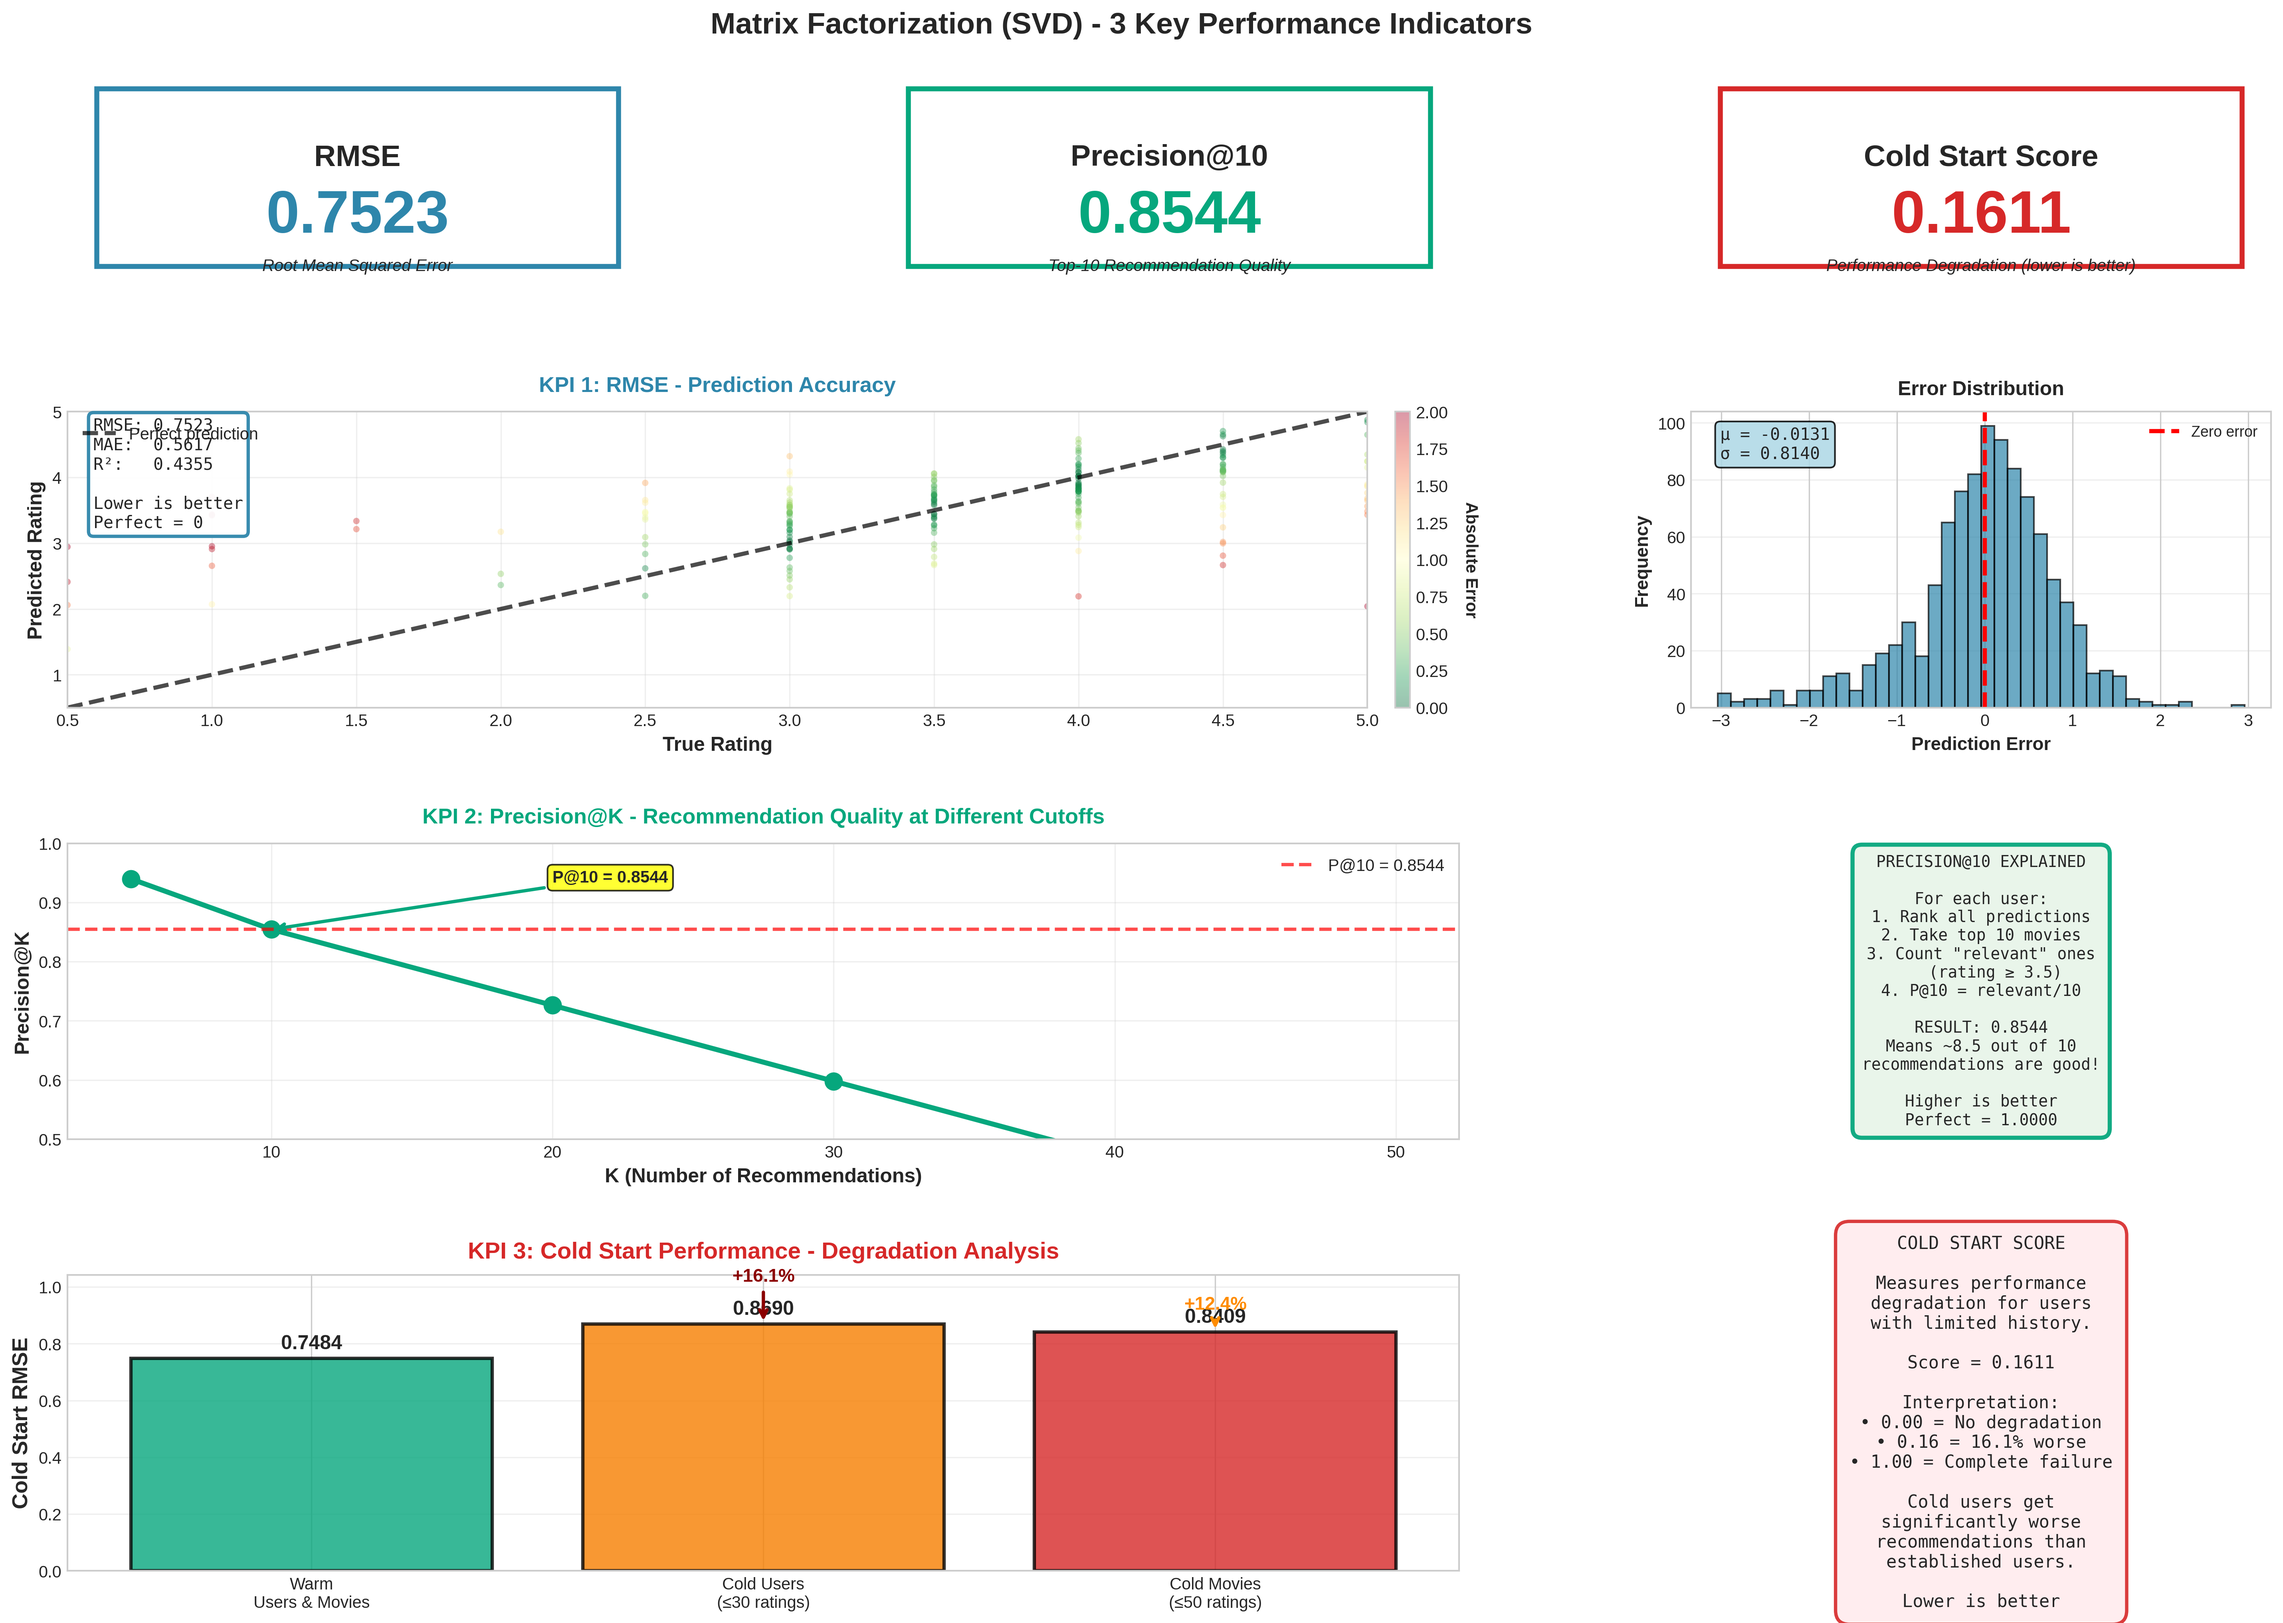
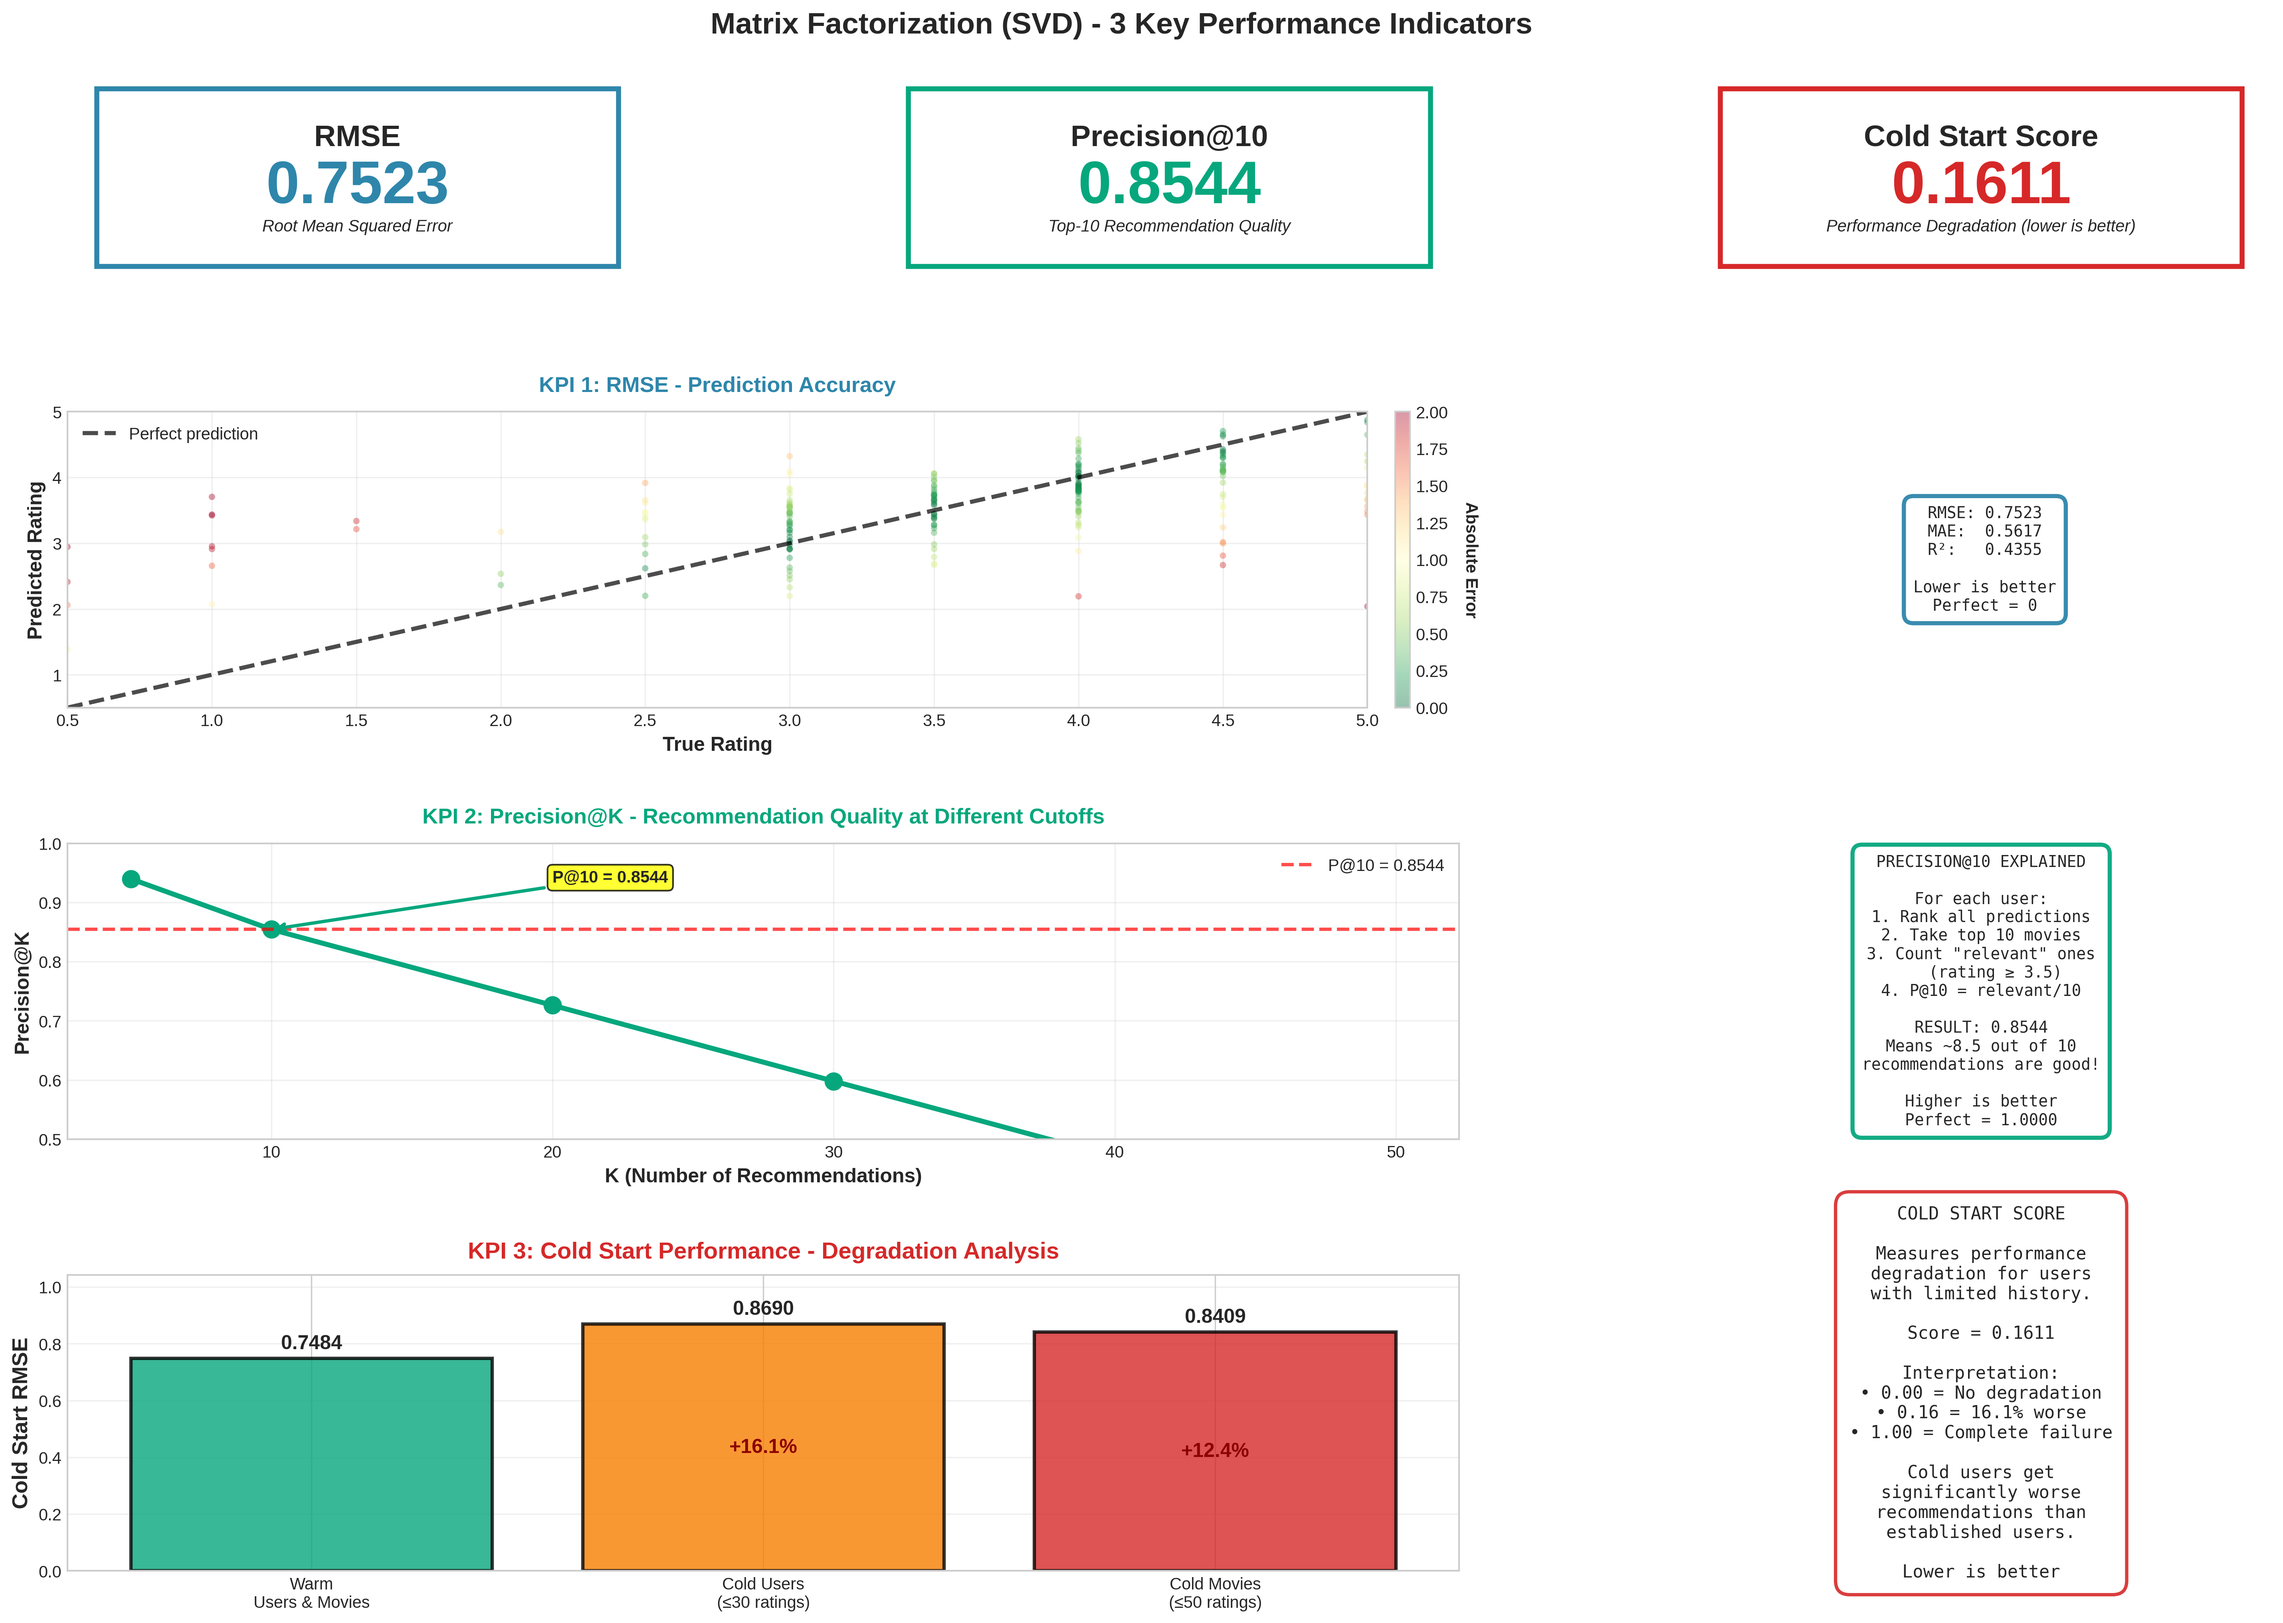
Adjusted and corrected visualization script

diff --git a/scripts/04_svd_visualization.py b/scripts/04_svd_visualization.py
@@ -33,10 +33,10 @@ gs = fig.add_gridspec(4, 3, hspace=0.5, wspace=0.4, top=0.94, bottom=0.05, left=
 # KPI 1: RMSE
 ax_kpi1 = fig.add_subplot(gs[0, 0])
 ax_kpi1.axis('off')
-ax_kpi1.text(0.5, 0.6, 'RMSE', ha='center', va='center', fontsize=18, fontweight='bold', transform=ax_kpi1.transAxes)
-ax_kpi1.text(0.5, 0.3, f'{results["rmse"]:.4f}', ha='center', va='center', fontsize=36, fontweight='bold', 
+ax_kpi1.text(0.5, 0.7, 'RMSE', ha='center', va='center', fontsize=18, fontweight='bold', transform=ax_kpi1.transAxes)
+ax_kpi1.text(0.5, 0.45, f'{results["rmse"]:.4f}', ha='center', va='center', fontsize=36, fontweight='bold', 
             color='#2E86AB', transform=ax_kpi1.transAxes)
-ax_kpi1.text(0.5, 0.05, 'Root Mean Squared Error', ha='center', va='center', fontsize=10, 
+ax_kpi1.text(0.5, 0.25, 'Root Mean Squared Error', ha='center', va='center', fontsize=10, 
             style='italic', transform=ax_kpi1.transAxes)
 rect1 = plt.Rectangle((0.05, 0.05), 0.9, 0.9, transform=ax_kpi1.transAxes, 
                        fill=False, edgecolor='#2E86AB', linewidth=3)
@@ -45,10 +45,10 @@ ax_kpi1.add_patch(rect1)
 # KPI 2: Precision@10
 ax_kpi2 = fig.add_subplot(gs[0, 1])
 ax_kpi2.axis('off')
-ax_kpi2.text(0.5, 0.6, 'Precision@10', ha='center', va='center', fontsize=18, fontweight='bold', transform=ax_kpi2.transAxes)
-ax_kpi2.text(0.5, 0.3, f'{results["precision_at_10"]:.4f}', ha='center', va='center', fontsize=36, fontweight='bold', 
+ax_kpi2.text(0.5, 0.7, 'Precision@10', ha='center', va='center', fontsize=18, fontweight='bold', transform=ax_kpi2.transAxes)
+ax_kpi2.text(0.5, 0.45, f'{results["precision_at_10"]:.4f}', ha='center', va='center', fontsize=36, fontweight='bold', 
             color='#06A77D', transform=ax_kpi2.transAxes)
-ax_kpi2.text(0.5, 0.05, 'Top-10 Recommendation Quality', ha='center', va='center', fontsize=10, 
+ax_kpi2.text(0.5, 0.25, 'Top-10 Recommendation Quality', ha='center', va='center', fontsize=10, 
             style='italic', transform=ax_kpi2.transAxes)
 rect2 = plt.Rectangle((0.05, 0.05), 0.9, 0.9, transform=ax_kpi2.transAxes, 
                        fill=False, edgecolor='#06A77D', linewidth=3)
@@ -57,10 +57,10 @@ ax_kpi2.add_patch(rect2)
 # KPI 3: Cold Start Score
 ax_kpi3 = fig.add_subplot(gs[0, 2])
 ax_kpi3.axis('off')
-ax_kpi3.text(0.5, 0.6, 'Cold Start Score', ha='center', va='center', fontsize=18, fontweight='bold', transform=ax_kpi3.transAxes)
-ax_kpi3.text(0.5, 0.3, f'{results["cold_start_score"]:.4f}', ha='center', va='center', fontsize=36, fontweight='bold', 
+ax_kpi3.text(0.5, 0.7, 'Cold Start Score', ha='center', va='center', fontsize=18, fontweight='bold', transform=ax_kpi3.transAxes)
+ax_kpi3.text(0.5, 0.45, f'{results["cold_start_score"]:.4f}', ha='center', va='center', fontsize=36, fontweight='bold', 
             color='#D62828', transform=ax_kpi3.transAxes)
-ax_kpi3.text(0.5, 0.05, 'Performance Degradation (lower is better)', ha='center', va='center', fontsize=10, 
+ax_kpi3.text(0.5, 0.25, 'Performance Degradation (lower is better)', ha='center', va='center', fontsize=10, 
             style='italic', transform=ax_kpi3.transAxes)
 rect3 = plt.Rectangle((0.05, 0.05), 0.9, 0.9, transform=ax_kpi3.transAxes, 
                        fill=False, edgecolor='#D62828', linewidth=3)
@@ -98,29 +98,30 @@ R²:   {results['r2_score']:.4f}
 
 Lower is better
 Perfect = 0"""
-ax1.text(0.02, 0.98, stats_text, transform=ax1.transAxes, fontsize=10, 
-        verticalalignment='top', fontfamily='monospace',
-        bbox=dict(boxstyle='round', facecolor='white', alpha=0.95, edgecolor='#2E86AB', linewidth=2))
+ax1.text(1.475, 0.5, stats_text, transform=ax1.transAxes,
+        fontsize=9.5, verticalalignment='center', horizontalalignment='center',
+        fontfamily='monospace',
+        bbox=dict(boxstyle='round', facecolor='white', alpha=0.95, edgecolor='#2E86AB', linewidth=2.5, pad=0.6))
 
 # ============================================================================
 # KPI 1 SUPPORTING: Error Distribution
 # ============================================================================
-ax1b = fig.add_subplot(gs[1, 2])
+# ax1b = fig.add_subplot(gs[1, 2])
 
-errors = sample_predictions['error']
-ax1b.hist(errors, bins=40, edgecolor='black', alpha=0.7, color='#2E86AB')
-ax1b.axvline(0, color='red', linestyle='--', linewidth=2.5, label='Zero error')
-ax1b.set_xlabel('Prediction Error', fontsize=11, fontweight='bold')
-ax1b.set_ylabel('Frequency', fontsize=11, fontweight='bold')
-ax1b.set_title('Error Distribution', fontsize=12, fontweight='bold', pad=10)
-ax1b.legend(fontsize=9)
-ax1b.grid(alpha=0.3, axis='y')
+# errors = sample_predictions['error']
+# ax1b.hist(errors, bins=40, edgecolor='black', alpha=0.7, color='#2E86AB')
+# ax1b.axvline(0, color='red', linestyle='--', linewidth=2.5, label='Zero error')
+# ax1b.set_xlabel('Prediction Error', fontsize=11, fontweight='bold')
+# ax1b.set_ylabel('Frequency', fontsize=11, fontweight='bold')
+# ax1b.set_title('Error Distribution', fontsize=12, fontweight='bold', pad=10)
+# ax1b.legend(fontsize=9)
+# ax1b.grid(alpha=0.3, axis='y')
 
-mean_error = errors.mean()
-std_error = errors.std()
-ax1b.text(0.05, 0.95, f"μ = {mean_error:.4f}\nσ = {std_error:.4f}", 
-        transform=ax1b.transAxes, fontsize=10, verticalalignment='top', fontfamily='monospace',
-        bbox=dict(boxstyle='round', facecolor='lightblue', alpha=0.85))
+# mean_error = errors.mean()
+# std_error = errors.std()
+# ax1b.text(0.05, 0.95, f"μ = {mean_error:.4f}\nσ = {std_error:.4f}", 
+#         transform=ax1b.transAxes, fontsize=10, verticalalignment='top', fontfamily='monospace',
+#         bbox=dict(boxstyle='round', facecolor='lightblue', alpha=0.85))
 
 # ============================================================================
 # KPI 2 DETAIL: Precision@K for different K values
@@ -219,7 +220,7 @@ Perfect = 1.0000"""
 ax2b.text(0.5, 0.5, explanation, transform=ax2b.transAxes,
          fontsize=9.5, verticalalignment='center', horizontalalignment='center',
          fontfamily='monospace',
-         bbox=dict(boxstyle='round', facecolor='#E8F5E9', alpha=0.95, 
+         bbox=dict(boxstyle='round', facecolor='white', alpha=0.95, 
                   edgecolor='#06A77D', linewidth=2.5, pad=0.6))
 
 # ============================================================================
@@ -250,18 +251,14 @@ degradation_user = ((results['cold_user_rmse'] - results['warm_rmse']) / results
 degradation_movie = ((results['cold_movie_rmse'] - results['warm_rmse']) / results['warm_rmse']) * 100
 
 ax3.annotate(f'+{degradation_user:.1f}%', 
-            xy=(1, results['cold_user_rmse']), 
-            xytext=(1, results['cold_user_rmse'] + 0.15),
-            fontsize=11, fontweight='bold', color='darkred',
-            ha='center',
-            arrowprops=dict(arrowstyle='->', lw=2, color='darkred'))
+            xy=(1, results['cold_user_rmse'] * 0.5), 
+            fontsize=12, fontweight='bold', color='darkred',
+            ha='center', va='center')
 
 ax3.annotate(f'+{degradation_movie:.1f}%', 
-            xy=(2, results['cold_movie_rmse']), 
-            xytext=(2, results['cold_movie_rmse'] + 0.08),
-            fontsize=11, fontweight='bold', color='darkorange',
-            ha='center',
-            arrowprops=dict(arrowstyle='->', lw=2, color='darkorange'))
+            xy=(2, results['cold_movie_rmse']* 0.5), 
+            fontsize=12, fontweight='bold', color='darkred',
+            ha='center', va='center')
 
 # ============================================================================
 # KPI 3 SUPPORTING: Cold Start Explanation
@@ -289,10 +286,10 @@ established users.
 
 Lower is better"""
 
-ax3b.text(0.5, 0.5, cold_explanation, transform=ax3b.transAxes,
+ax3b.text(0.5, 0.6, cold_explanation, transform=ax3b.transAxes,
          fontsize=10.5, verticalalignment='center', horizontalalignment='center',
          fontfamily='monospace',
-         bbox=dict(boxstyle='round', facecolor='#FFEBEE', alpha=0.9, 
+         bbox=dict(boxstyle='round', facecolor='white', alpha=0.9, 
                   edgecolor='#D62828', linewidth=2, pad=0.8))
 
 # ============================================================================

diff --git a/scripts/05_transformer_model.py b/scripts/05_transformer_model.py
@@ -9,9 +9,9 @@ import json
 import os
 from tqdm import tqdm
 
-print("=" * 70)
-print("TRANSFORMER MODEL - 2020s ERA")
-print("=" * 70)
+print("=" * 60)
+print("TRANSFORMER MODEL")
+print("=" * 60)
 
 # Check if GPU is available
 device = torch.device('cuda' if torch.cuda.is_available() else 'cpu')
